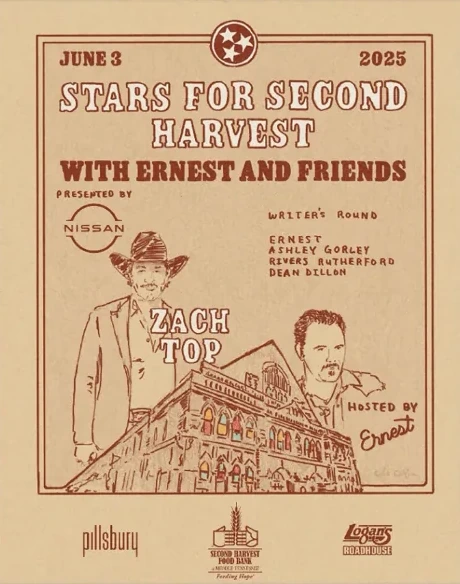
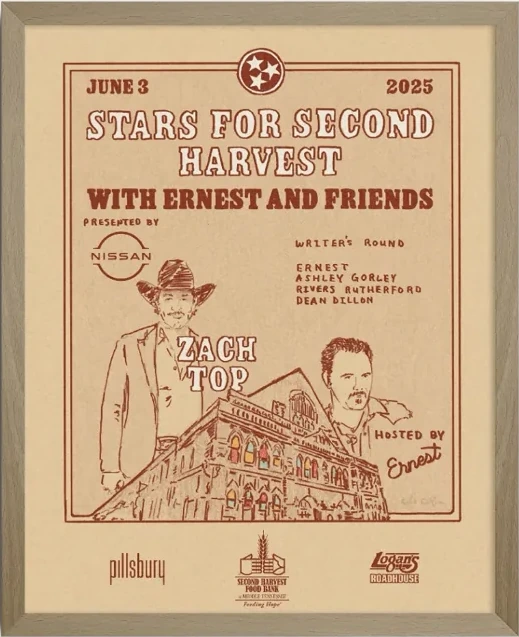
Index: art-direct each project instead of one template
The larger reading pane and the plate line stay as the shared interface;
each body of work now gets the presentation that suits it.

- Joseph Martin: the two framed posters are restored side by side,
  exactly as the original photographs, frames, shadows and wall intact.
  Series can now show a page of two (data-per-page="2"); the second
  page pairs the ink illustration with the Hatmaker poster, as before.
  The original files return to their original paths.
- ERNEST: kept in its frame, cut at the frame's outer edge (an even
  23-24 px of wood on every side), so the framed poster fills the stage.
- Drawings and Paintings: back to their own established presentations
  (Drawings' centred sheet, controls and captions; Paintings' centred
  hang), only given the wider pane.
- Phones: single plates no longer draw a box around the image, matching
  desktop; ERNEST's frame was sitting inside a second, thin one.

The no-scroll test now checks pages of two as well as single images.

Claude-Session: https://claude.ai/code/session_01GZLWUqV4fTwGcLV6gF4Gcj

diff --git a/site/index/index.html b/site/index/index.html
@@ -732,8 +732,6 @@ body.work-index{height:100dvh;max-height:100dvh}
  body.work-index .work-panel.is-open .plate :is(.series-nav,.kashus-gallery-controls,.ronnie-navigation,.teton-navigation,.drawings-controls) button{min-width:40px;min-height:44px;padding:0;font-size:17px}
  body.work-index .work-panel.is-open .plate .series-nav[hidden]{display:none!important}
  body.work-index .work-panel.is-open .plate #kashus-image-caption{min-height:44px}
- body.work-index .paintings-archive-stage{justify-content:flex-start}
- body.work-index .paintings-archive-stage img{object-position:left bottom}
  body.work-index .work-panel.is-open .plate .kashus-release-links{grid-area:more;grid-template-columns:repeat(4,minmax(0,1fr));margin:4px 0 0}
 }
 
@@ -756,6 +754,20 @@ body.work-index{height:100dvh;max-height:100dvh}
  .work-index .index-table{letter-spacing:-.015em}
  .work-index .index-table col:nth-child(1){width:28px}
  .work-index .index-table col:nth-child(4){width:54px}
+}
+
+/* Pairs: works that belong together (the Joseph Martin posters) share the
+   stage side by side, each whole, standing on the caption rule. */
+@media(min-width:851px){
+ body.work-index .work-panel.is-open .plate .series.is-pair{display:grid;grid-template-columns:repeat(2,minmax(0,1fr));gap:clamp(12px,1.4vw,22px)}
+ body.work-index .work-panel.is-open .plate .series.is-pair > .photo-plate:not([hidden]){position:relative;inset:auto;min-width:0;min-height:0}
+ body.work-index .work-panel.is-open .plate .series.is-pair > .photo-plate img{object-position:center bottom}
+}
+@media(max-width:850px){
+ .work-index .work-panel.is-open .panel-content > .series.is-pair{display:grid;grid-template-columns:repeat(2,minmax(0,1fr));grid-template-rows:minmax(0,1fr);gap:9px;align-items:stretch}
+ .work-index .work-panel.is-open .series.is-pair > .photo-plate:not([hidden]){height:100%;min-width:0;align-items:flex-end}
+ /* A single plate is the image alone, as on desktop: no box drawn around it. */
+ .work-index .work-panel.is-open .plate > .archive-plate.photo-plate{border:0;background:transparent}
 }
 </style><script src="/index/paintings-archive.js" defer></script><link rel="preconnect" href="https://fonts.googleapis.com">
 <link rel="preconnect" href="https://fonts.gstatic.com" crossorigin>
@@ -853,18 +865,18 @@ body.work-index{height:100dvh;max-height:100dvh}
 
         <div class="panel-content plate" data-panel="joseph" hidden>
       <div class="panel-top"><h2 class="panel-title">Joseph Martin</h2><button class="panel-close" type="button" aria-label="Close Joseph Martin">CLOSE ×</button></div>
-      <div class="series" data-series="joseph" aria-label="Joseph Martin artwork">
-        <figure class="archive-plate photo-plate" data-caption="POSTER / DOUBLE DECKER ARTS FESTIVAL, OXFORD"><img loading="lazy" src="../assets/jm3.png" width="1339" height="1841" alt="Joseph Martin Hatmaker Double Decker Arts Festival poster in purple with cowboy on horseback" onerror="this.parentElement.classList.add('is-pending');this.hidden=true"></figure>
-        <figure class="archive-plate photo-plate" data-caption="EVENT POSTER / COLLAGE STUDIO, JACKSON" hidden><img loading="lazy" src="../assets/joseph-martin-survives.webp" width="532" height="672" alt="Framed Martin Survives event poster, western illustration in red" onerror="this.parentElement.classList.add('is-pending');this.hidden=true"></figure>
-        <figure class="archive-plate photo-plate" data-caption="EVENT POSTER / COLLAGE STUDIO, JACKSON" hidden><img loading="lazy" src="../assets/joseph-martin-luck.webp" width="532" height="672" alt="Framed Don't Call It Luck event poster, cowboy illustration in red" onerror="this.parentElement.classList.add('is-pending');this.hidden=true"></figure>
-        <figure class="archive-plate photo-plate" data-caption="ILLUSTRATION" hidden><img loading="lazy" src="../assets/cg.png" width="19872" height="19872" alt="Red ink illustration of a cowboy in a wide-brimmed hat, for Joseph Martin" onerror="this.parentElement.classList.add('is-pending');this.hidden=true"></figure>
+      <div class="series is-pair" data-series="joseph" data-per-page="2" aria-label="Joseph Martin artwork">
+        <figure class="archive-plate photo-plate" data-caption="EVENT POSTERS / COLLAGE STUDIO, JACKSON"><img loading="lazy" src="../assets/joseph-martin-01.webp" width="1100" height="1375" alt="Framed Martin Survives event poster, western illustration in red" onerror="this.parentElement.classList.add('is-pending');this.hidden=true"></figure>
+        <figure class="archive-plate photo-plate"><img loading="lazy" src="../assets/joseph-martin-02.webp" width="1100" height="1375" alt="Framed Don't Call It Luck event poster, cowboy illustration in red" onerror="this.parentElement.classList.add('is-pending');this.hidden=true"></figure>
+        <figure class="archive-plate photo-plate" data-caption="ILLUSTRATION / POSTER, DOUBLE DECKER ARTS FESTIVAL, OXFORD" hidden><img loading="lazy" src="../assets/cg.png" width="19872" height="19872" alt="Red ink illustration of a cowboy in a wide-brimmed hat, for Joseph Martin" onerror="this.parentElement.classList.add('is-pending');this.hidden=true"></figure>
+        <figure class="archive-plate photo-plate" hidden><img loading="lazy" src="../assets/jm3.png" width="1339" height="1841" alt="Joseph Martin Hatmaker Double Decker Arts Festival poster in purple with cowboy on horseback" onerror="this.parentElement.classList.add('is-pending');this.hidden=true"></figure>
       </div>
       <div class="series-nav" data-pair-nav="joseph" role="group" aria-label="Browse Joseph Martin artwork">
-        <button type="button" data-pair-step="-1" aria-label="Previous image">←</button>
-        <span data-pair-count>01 / 04</span>
-        <button type="button" data-pair-step="1" aria-label="Next image">→</button>
+        <button type="button" data-pair-step="-1" aria-label="Previous pair">←</button>
+        <span data-pair-count>01—02 / 04</span>
+        <button type="button" data-pair-step="1" aria-label="Next pair">→</button>
       </div>
-      <p class="archive-plate-caption" data-series-caption>POSTER / DOUBLE DECKER ARTS FESTIVAL, OXFORD</p>
+      <p class="archive-plate-caption" data-series-caption>EVENT POSTERS / COLLAGE STUDIO, JACKSON</p>
     </div>
     <div class="panel-content" data-panel="freeman" hidden>
       <div class="panel-top"><h2 class="panel-title">Freeman General Contracting</h2><button class="panel-close" type="button" aria-label="Close Freeman General Contracting">CLOSE ×</button></div>
@@ -884,10 +896,10 @@ body.work-index{height:100dvh;max-height:100dvh}
     </div>
     <div class="panel-content plate" data-panel="ernest" hidden>
       <div class="panel-top"><h2 class="panel-title">ERNEST</h2><button class="panel-close" type="button" aria-label="Close ERNEST">CLOSE ×</button></div>
-      <figure class="archive-plate photo-plate whole-plate"><img loading="lazy" src="../assets/ernest-second-harvest.webp" width="460" height="584" alt="Stars for Second Harvest event poster designed for ERNEST" onerror="this.parentElement.classList.add('is-pending');this.hidden=true"></figure>
+      <figure class="archive-plate photo-plate whole-plate"><img loading="lazy" src="../assets/ernest-second-harvest.webp" width="519" height="637" alt="Framed Stars for Second Harvest event poster designed for ERNEST" onerror="this.parentElement.classList.add('is-pending');this.hidden=true"></figure>
       <p class="archive-plate-caption">EVENT POSTER / STARS FOR SECOND HARVEST</p>
     </div>
-    <div class="panel-content plate" data-panel="drawings" hidden>
+    <div class="panel-content" data-panel="drawings" hidden>
       <div class="panel-top"><h2 class="panel-title">Drawings</h2><button class="panel-close" type="button" aria-label="Close Drawings">CLOSE ×</button></div>
       <div class="drawings-gallery" aria-label="Independent drawings">
         <figure class="archive-plate photo-plate drawings-stage"><img id="drawings-active-image" loading="lazy" src="../assets/2%202%201.png" alt="Bison study"></figure>
@@ -897,7 +909,7 @@ body.work-index{height:100dvh;max-height:100dvh}
           <button type="button" data-drawings-step="1" aria-label="Next drawing">→</button>
         </div>
       </div>
-      <p class="archive-plate-caption" id="drawings-caption">BISON STUDY</p>
+      <p class="archive-plate-caption" id="drawings-caption">BISON STUDY / INDEPENDENT WORK</p>
     </div>
     <div class="panel-content plate" data-panel="cowboyer" hidden>
       <div class="panel-top"><h2 class="panel-title">The Cowboyer</h2><button class="panel-close" type="button" aria-label="Close The Cowboyer">CLOSE ×</button></div>
@@ -1288,7 +1300,7 @@ body.work-index{height:100dvh;max-height:100dvh}
    const slide=slides[position];
    image.src=slide.src;image.alt=slide.caption;
    count.textContent=String(position+1).padStart(2,'0')+' / '+String(slides.length).padStart(2,'0');
-   caption.textContent=slide.caption.toUpperCase();
+   caption.textContent=slide.caption.toUpperCase()+' / INDEPENDENT WORK';
  }
  gallery.querySelectorAll('[data-drawings-step]').forEach(button=>button.addEventListener('click',()=>show(position+Number(button.dataset.drawingsStep))));
  gallery.addEventListener('keydown',event=>{
@@ -1299,11 +1311,14 @@ body.work-index{height:100dvh;max-height:100dvh}
 })();
 </script>
 <script>
-/* Series: one whole artwork at a time, at every width. The figures stay in the
-   markup (each image keeps its own file and proportions); arrows, swipe and the
-   row's arrow keys step through them, and the enlarged viewer sees them all. */
+/* Series: each project shows its work a page at a time, one artwork by
+   default or a pair where the pieces belong together (data-per-page="2").
+   The figures stay in the markup, each image keeps its own file and
+   proportions; arrows, swipe and the row's arrow keys turn the page, and
+   the enlarged viewer steps through every image. */
 (function(){
  window.__workSlides=window.__workSlides||{};
+ const pad=n=>String(n).padStart(2,'0');
  document.querySelectorAll('.series[data-series]').forEach(series=>{
   const name=series.dataset.series;
   const panel=series.closest('.panel-content');
@@ -1311,18 +1326,20 @@ body.work-index{height:100dvh;max-height:100dvh}
   const nav=panel.querySelector('[data-pair-nav="'+name+'"]');
   const caption=panel.querySelector('[data-series-caption]');
   if(!figures.length||!nav)return;
-  const total=String(figures.length).padStart(2,'0');
+  const per=Math.max(1,Number(series.dataset.perPage)||1);
+  const pages=Math.ceil(figures.length/per);
   window.__workSlides[panel.dataset.panel]=figures.map(f=>{const i=f.querySelector('img');return {src:i.getAttribute('src'),alt:i.alt};});
-  let position=0,origin=null;
-  function warm(i){const img=figures[(i+figures.length)%figures.length].querySelector('img');if(img)img.loading='eager';}
+  let page=0,origin=null;
+  function warm(p){const q=(p+pages)%pages;figures.slice(q*per,q*per+per).forEach(f=>{const img=f.querySelector('img');if(img)img.loading='eager';});}
   function render(){
-   figures.forEach((fig,i)=>{fig.hidden=i!==position;});
-   nav.querySelector('[data-pair-count]').textContent=String(position+1).padStart(2,'0')+' / '+total;
-   if(caption)caption.textContent=figures[position].dataset.caption||'';
-   warm(position+1);warm(position-1);
+   const first=page*per,last=Math.min(first+per,figures.length);
+   figures.forEach((fig,i)=>{fig.hidden=i<first||i>=last;});
+   nav.querySelector('[data-pair-count]').textContent=(last-first>1?pad(first+1)+'—'+pad(last):pad(first+1))+' / '+pad(figures.length);
+   if(caption)caption.textContent=figures[first].dataset.caption||'';
+   warm(page);warm(page+1);warm(page-1);
   }
-  function move(delta){position=(position+delta+figures.length)%figures.length;render();}
-  nav.hidden=figures.length<2;
+  function move(delta){page=(page+delta+pages)%pages;render();}
+  nav.hidden=pages<2;
   nav.querySelectorAll('[data-pair-step]').forEach(b=>b.addEventListener('click',()=>move(Number(b.dataset.pairStep))));
   series.addEventListener('touchstart',event=>{
    origin=event.touches.length===1?{x:event.touches[0].clientX,y:event.touches[0].clientY}:null;

diff --git a/retired/README.md b/retired/README.md
@@ -19,9 +19,7 @@ These pages still reference `/assets/…` as they did when they were public, so
 they will not render fully from here. `studies/painting-crops/apply.py` was
 written for the old layout; its target is now `site/paintings/index.html`.
 
-`assets/s1.jpeg`, `s2.jpeg` (Scout Motors), `joseph-martin-01.webp`,
-`joseph-martin-02.webp`, `ernest.webp`, `cowboyer-cover-01.webp` and
+`assets/s1.jpeg`, `s2.jpeg` (Scout Motors), `ernest.webp`, `cowboyer-cover-01.webp` and
 `cowboyer-cover-02.webp` are the original framed and wall mockups, kept at full
 resolution. The Index now shows the artwork cropped from them
-(`site/assets/scout-*.jpg`, `joseph-martin-survives.webp`, `joseph-martin-luck.webp`,
-`ernest-second-harvest.webp`, `cowboyer-bison.webp`, `cowboyer-orange-rider.webp`).
+(`site/assets/scout-*.jpg`, `ernest-second-harvest.webp`, `cowboyer-bison.webp`, `cowboyer-orange-rider.webp`).
